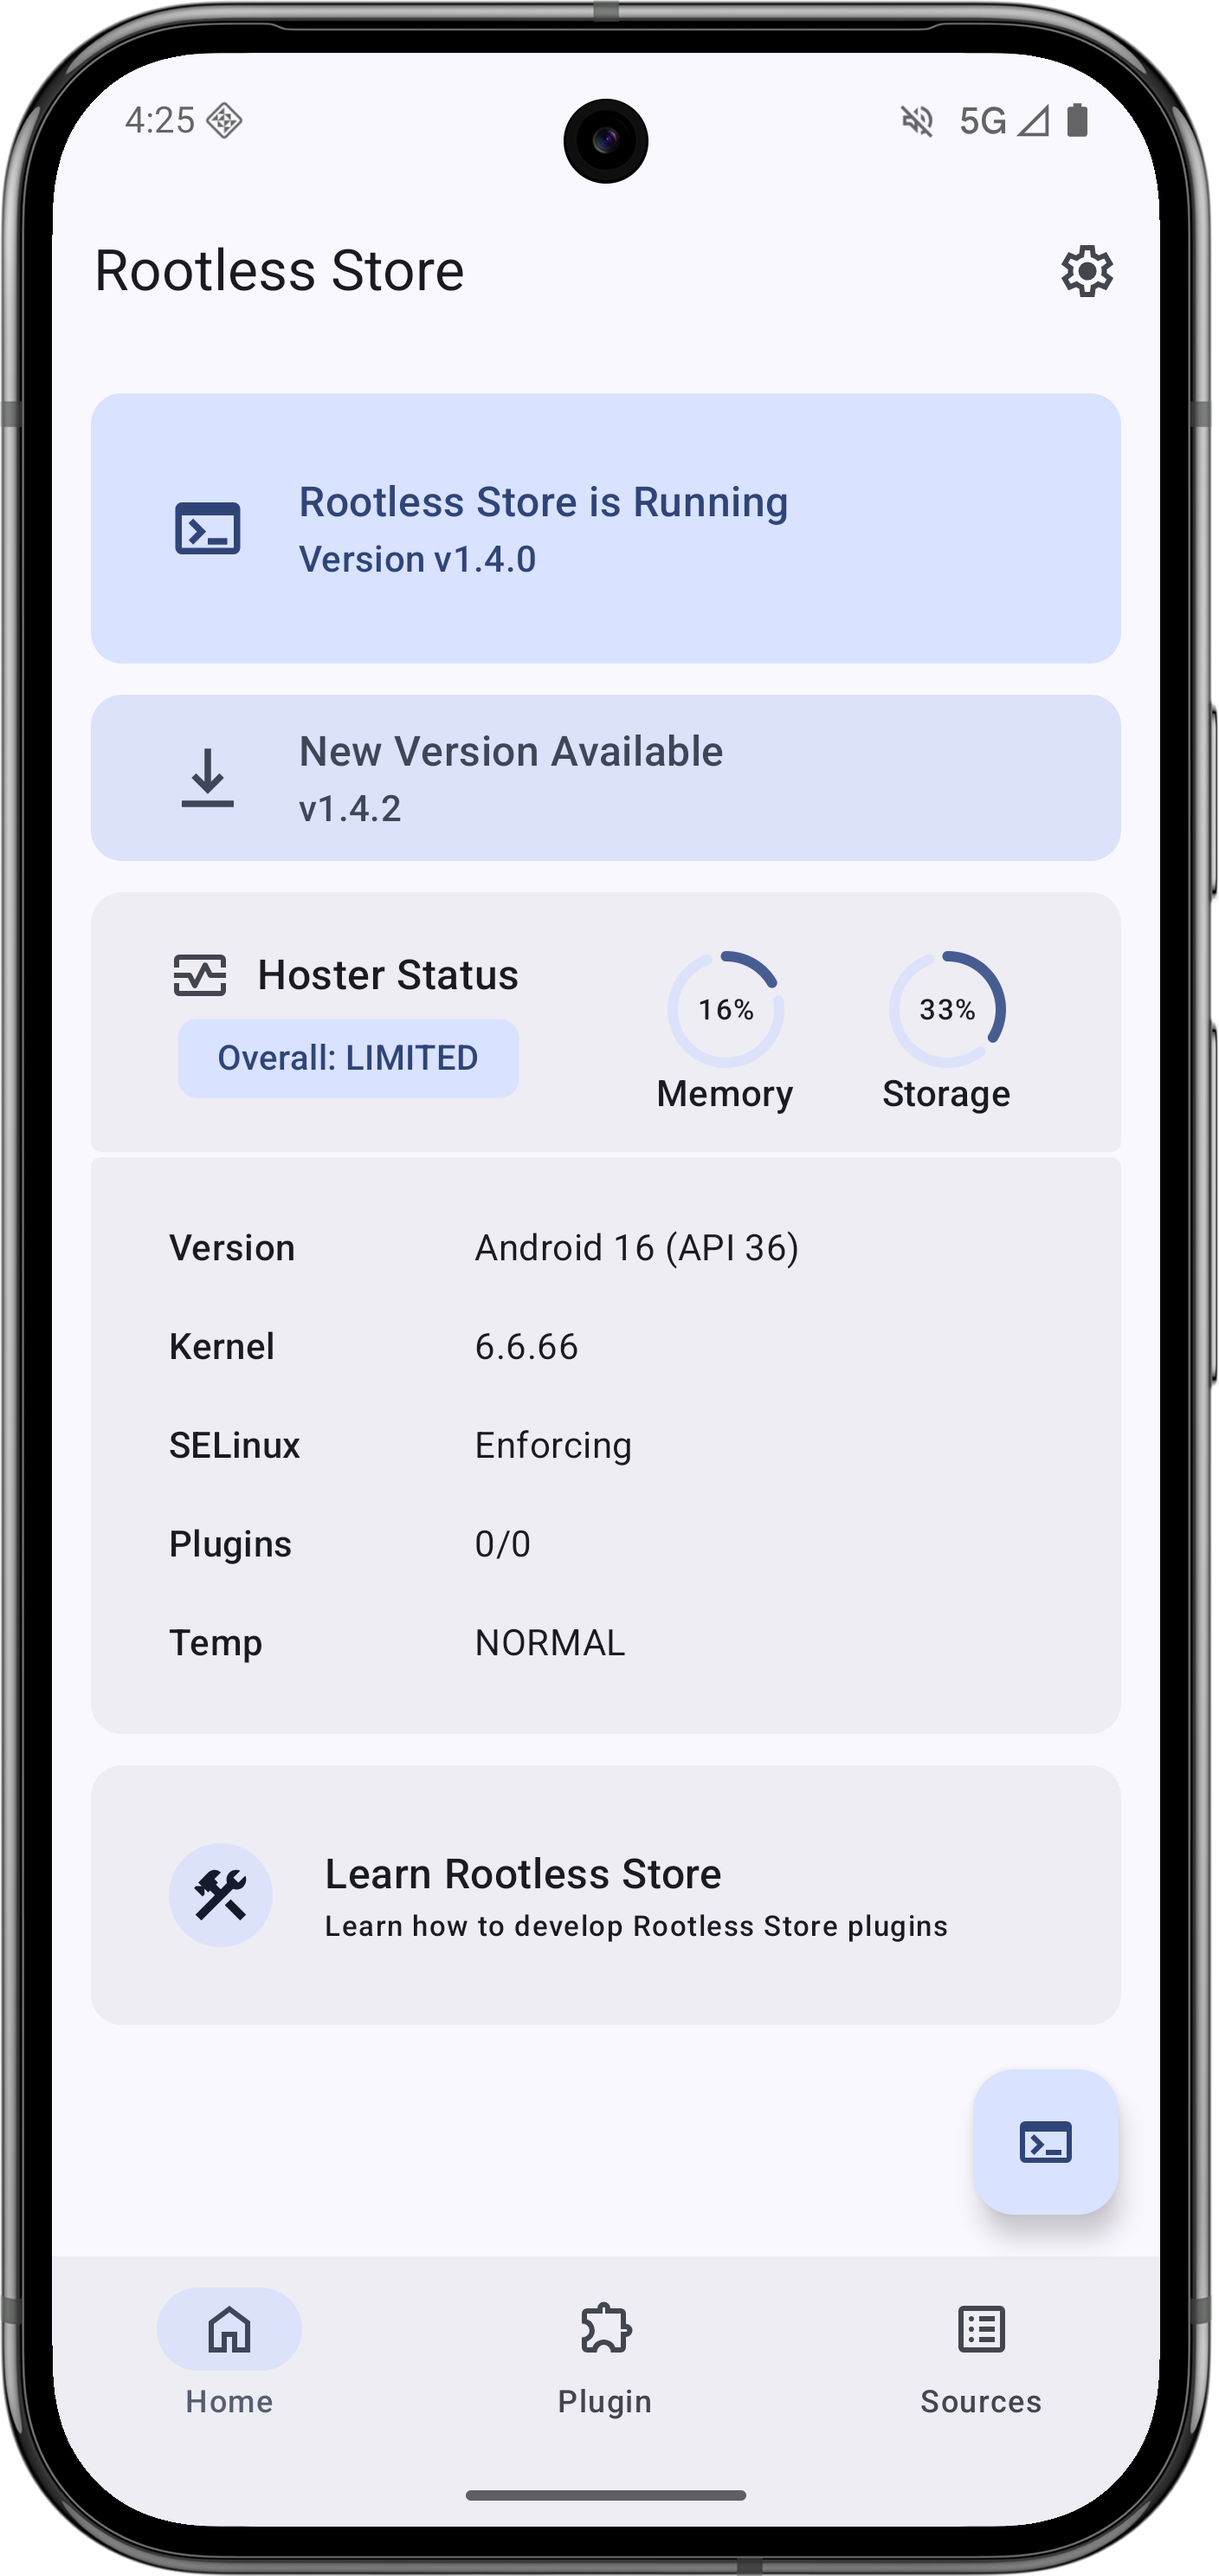
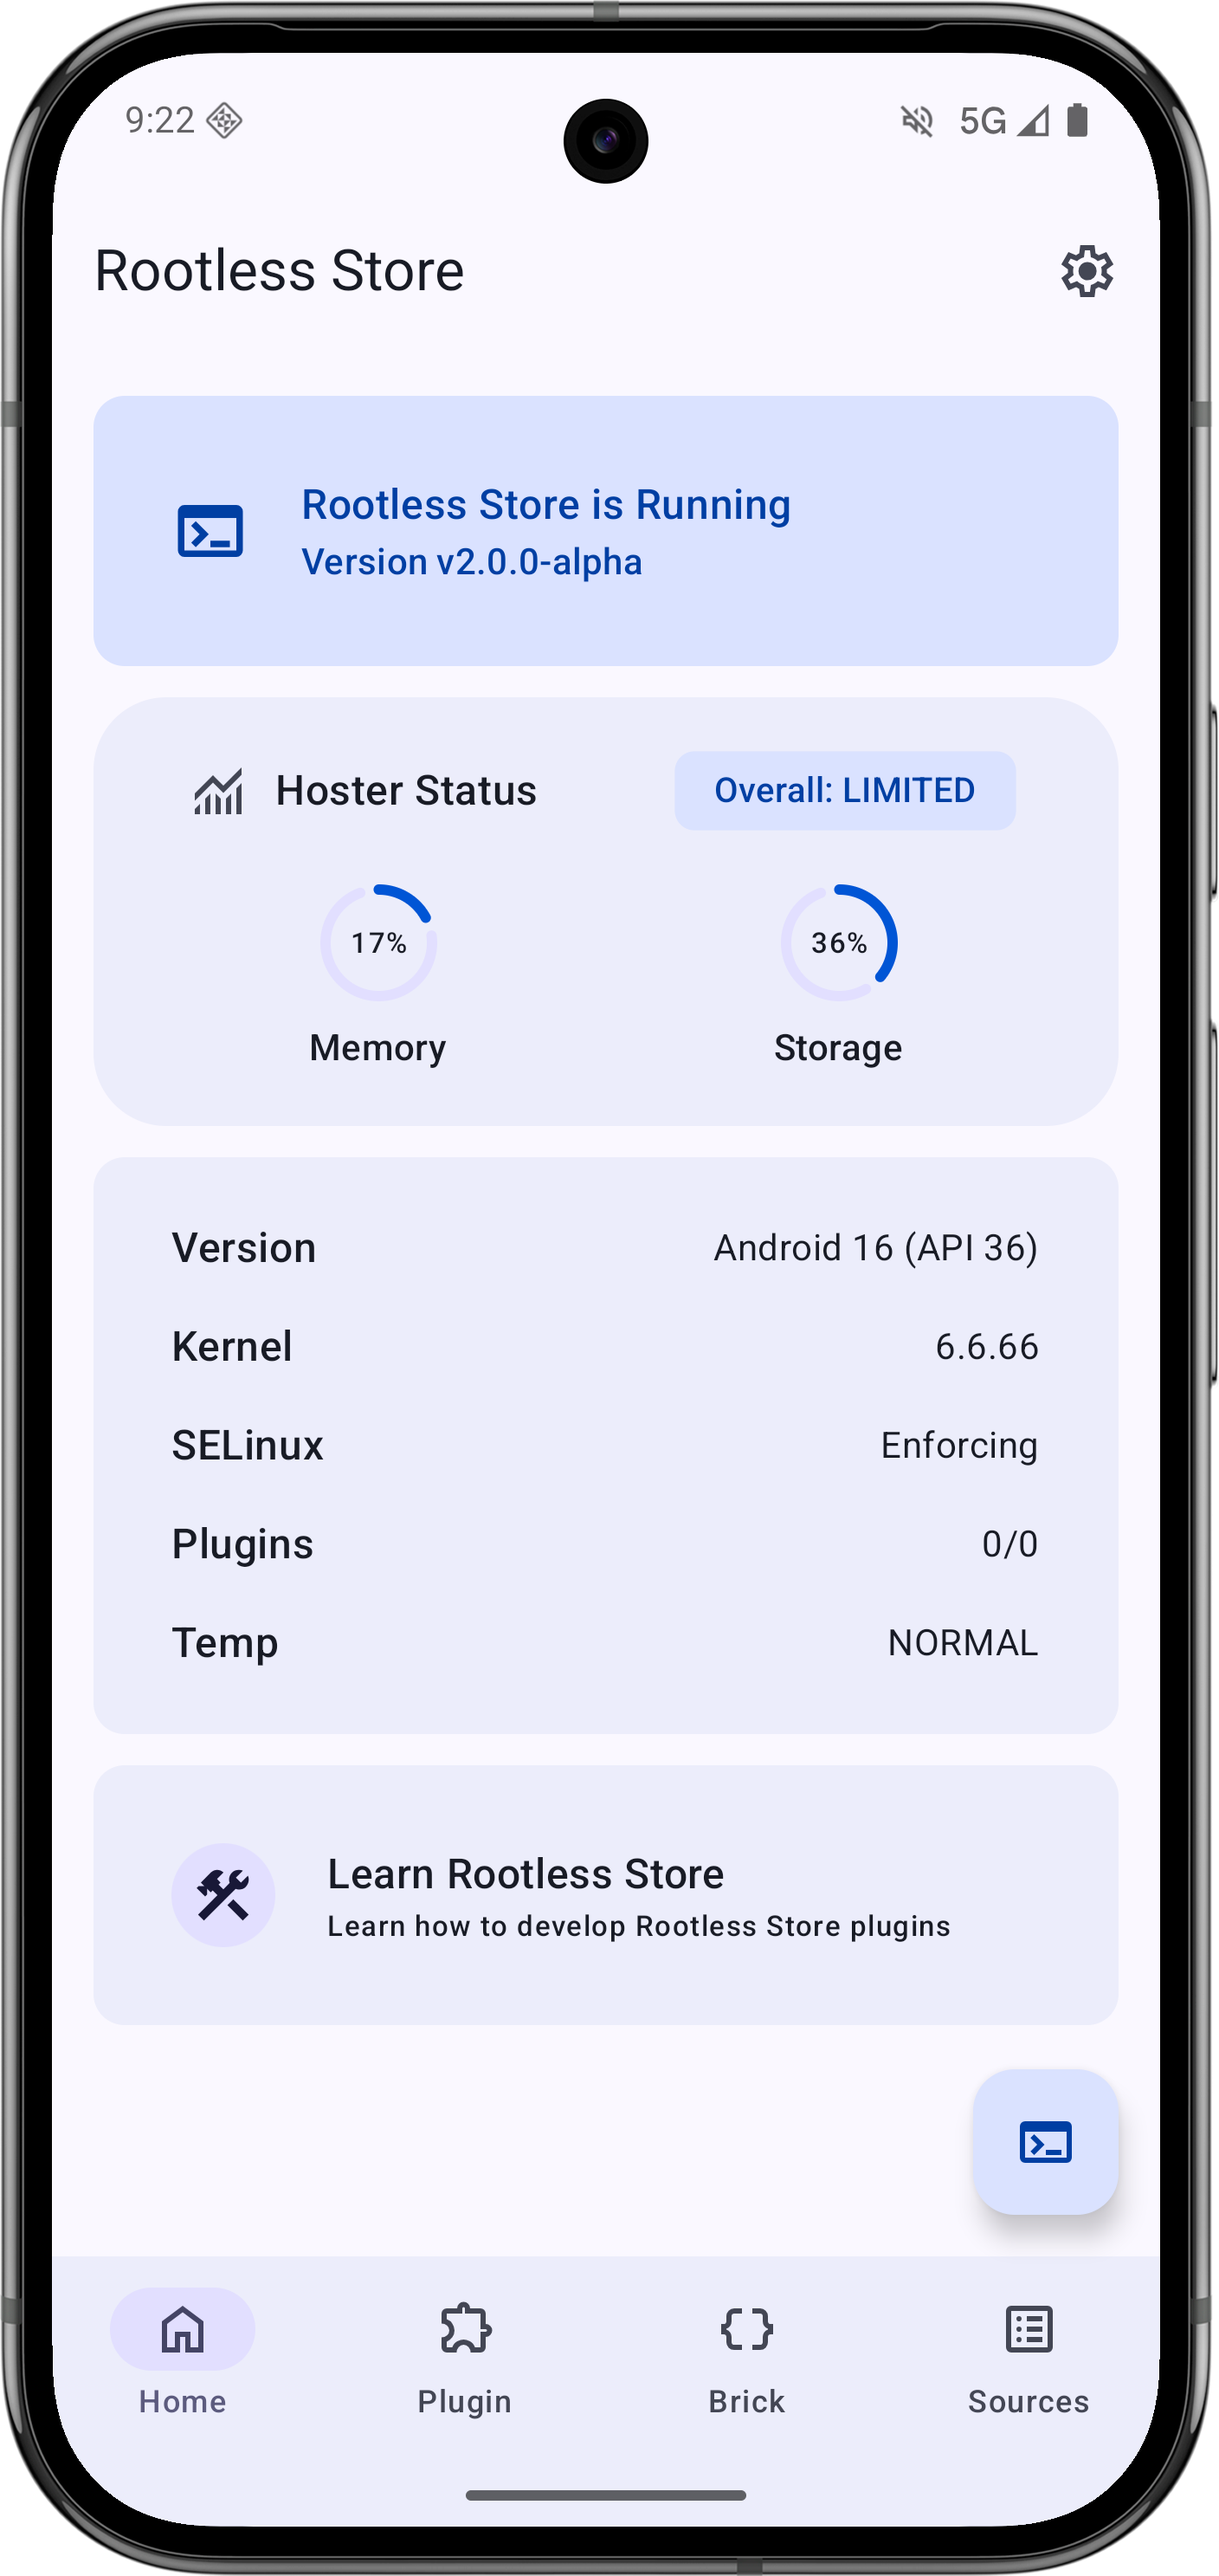
docs(readme): Refresh README feature copy and screenshots
Update the README feature list for the 2.0 workflow.
Show the Code Brick screenshot in the main preview area.

diff --git a/README.md b/README.md
@@ -8,7 +8,7 @@ An open-source, rootless plugin management and runtime platform for the Android 
 <p>
     <img src="/asset/picture/HomeScreen.png" width="32%" />
     <img src="/asset/picture/PluginScreen.png" width="32%" />
-    <img src="/asset/picture/MarketScreen.png" width="32%" />
+    <img src="/asset/picture/CodeBrickScreen.png" width="32%" />
     <img src="/asset/picture/SettingScreen.png" width="32%" />
     <img src="/asset/picture/ExecuteScreen.png" width="32%" />
     <img src="/asset/picture/ShellScreen.png" width="32%" />
@@ -31,11 +31,13 @@ It stands on three core principles:
 
 ## Features
 
-- Plugin management and execution
-- Source management and market integration
-- Multiple execution environments: Shizuku, Shell, Root
-- Device status dashboard: Memory, Storage, Kernel, SELinux, Plugins, Temp
-- GUI-first design to lower the barrier of traditional TUI / TTY workflows
+- Manage, execute, share, and install plugins from configurable sources
+- Build quick automations with CodeBrick, then promote them into full plugins when they grow
+- Run both one-shot scripts and daemon-style plugins designed for long-running workflows
+- Choose the right execution context: limited app shell, Shizuku / ADB, or Root
+- Receive remote notifications for plugin status changes and warning events
+- Monitor device status, including Memory, Storage, Kernel, SELinux, Plugin state, and temperature
+- Use a GUI-first workflow instead of wrestling with traditional TUI / TTY tooling
 
 ## Roadmap
 
@@ -50,9 +52,9 @@ It stands on three core principles:
 - [x] Plugin status transition cleaning
 - [x] Support Preference Panel
 - [x] Support private sources, invisible sources, and paid sources
-- [ ] Shell code snippet support
+- [x] Shell code snippet support
 - [ ] Magisk Plugin Compatibility Layer
-- [ ] Quick launch tile of the Android Control Center
+- [x] Quick launch tile of the Android Control Center
 - [ ] Host status panel， More Expressive
 - [ ] A more intuitive demonstration of plugin execution methods
 - [ ] Improve filtering, state feedback, and permission boundaries
